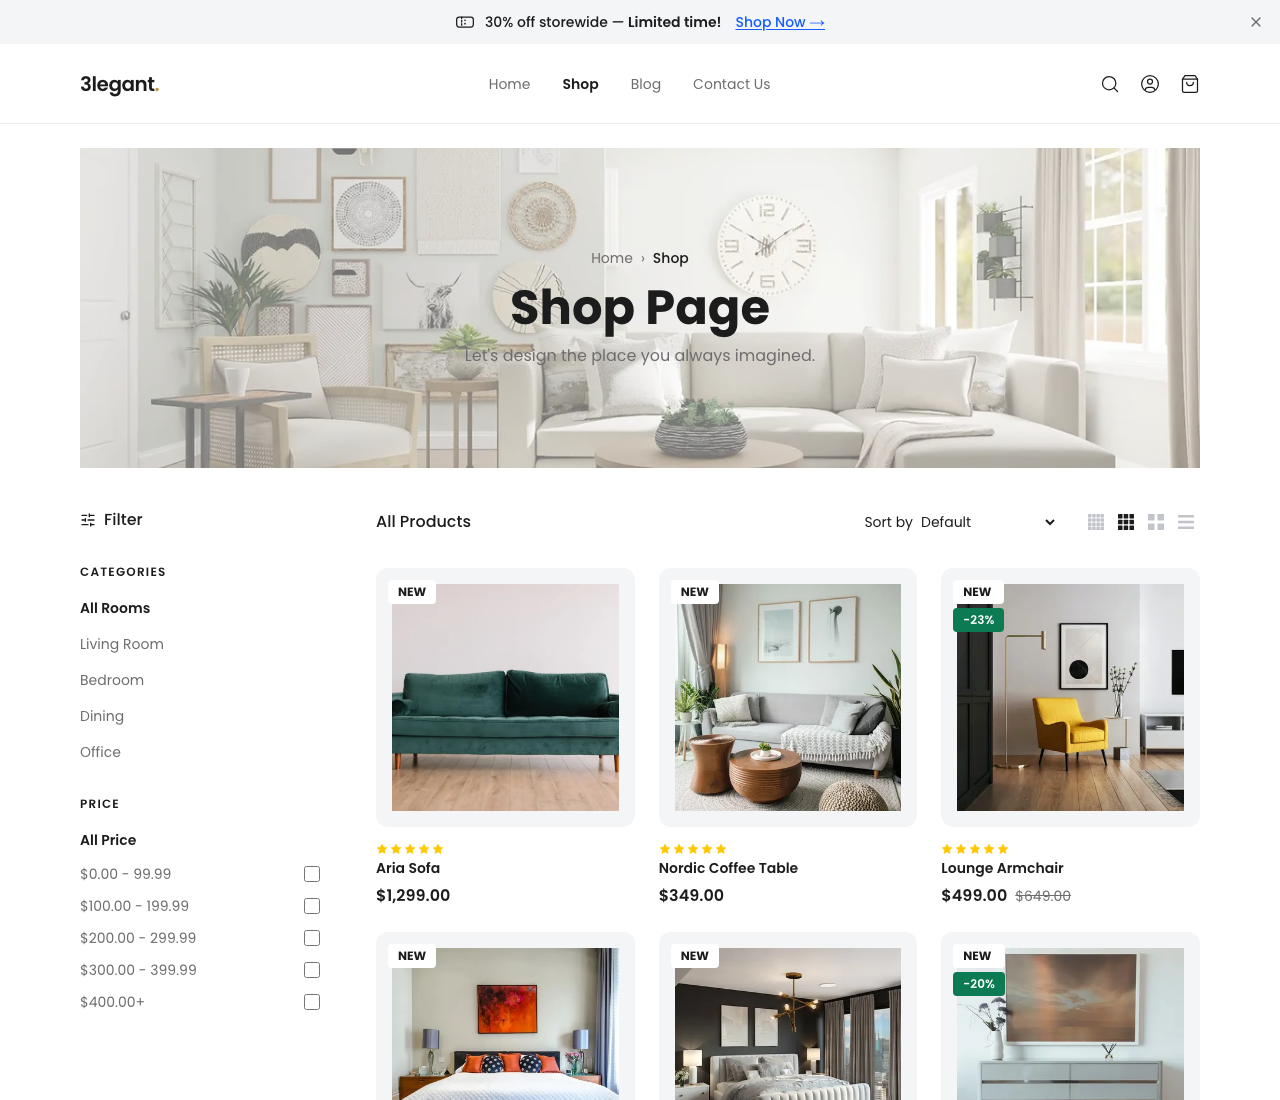
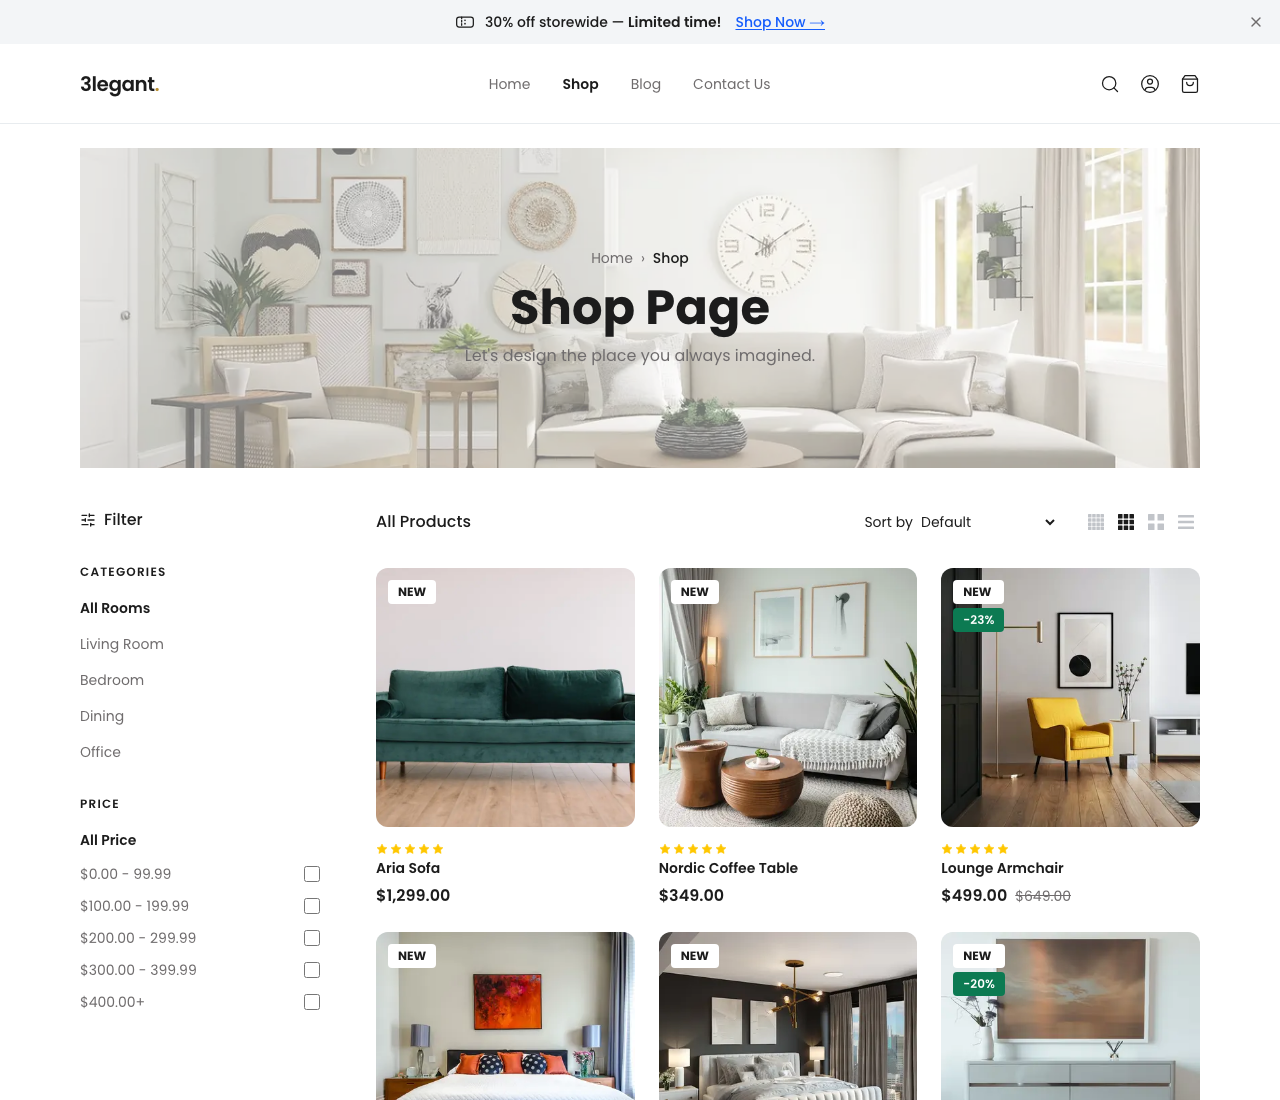
feat: let card and newsletter images fill their containers
The category and product cards drew their photos with object-contain plus
padding, so every card showed a band of bg-mist around the image and the
subject floated in the middle of an empty box. Both use object-cover now
and the photo runs to the edges.

Filling the category card puts the heading on top of the photo, so it
gains a small top-left scrim that fades out by 45% — enough for the ink
text to hold up over whatever the CMS serves, without washing out the
picture the way a full-card overlay did.

The Dining category photo was mostly bare wall; cropped to a wide card it
became an empty grey band. Swapped for a full dining scene. Note this is
the mock data only — the deployed site reads categories from Strapi, so
the same swap has to be made in the CMS.

The newsletter band was two mismatched image strips (20% and 24% wide) of
photos the page already shows above, either side of a flat panel, and no
image at all on mobile. It is now a single full-bleed photo behind an
ink/65 scrim with white text, on every breakpoint. Measured against the
rendered backdrop, the worst-case contrast in the text column is 5.7:1.

Screenshots for the shop, cart and checkout pages recaptured to match.

Changed region(s): [[0.2812, 0.4945, 0.9375, 0.7727], [0.2812, 0.8345, 0.9375, 1.0]]

diff --git a/src/features/shared/components/newsletter-section.tsx b/src/features/shared/components/newsletter-section.tsx
@@ -3,6 +3,11 @@
 import { useState } from "react";
 import Image from "next/image";
 
+// Decorative only. Deliberately not one of the photos the home page already
+// shows above this section, so the band reads as a new scene.
+const BACKDROP =
+  "https://images.unsplash.com/photo-1560184897-502a475f7a0d?w=1920&h=800&fit=crop&auto=format&q=80";
+
 function MailIcon() {
   return (
     <svg width="20" height="20" viewBox="0 0 24 24" fill="none" stroke="currentColor" strokeWidth={1.5} strokeLinecap="round" strokeLinejoin="round">
@@ -21,37 +26,29 @@ export function NewsletterSection() {
   }
 
   return (
-    <section className="relative overflow-hidden bg-mist">
-      {/* Flanking furniture images — desktop only */}
-      <div className="hidden lg:block absolute inset-y-0 left-0 w-[20%]" aria-hidden="true">
-        <Image
-          src="https://images.unsplash.com/photo-1540518614846-7eded433c457?w=600&h=900&fit=crop&auto=format&q=80"
-          alt=""
-          fill
-          sizes="20vw"
-          className="object-cover"
-        />
-      </div>
-      <div className="hidden lg:block absolute inset-y-0 right-0 w-[24%]" aria-hidden="true">
-        <Image
-          src="https://images.unsplash.com/photo-1555041469-a586c61ea9bc?w=600&h=900&fit=crop&auto=format&q=80"
-          alt=""
-          fill
-          sizes="24vw"
-          className="object-cover"
-        />
-      </div>
+    <section className="relative overflow-hidden bg-ink">
+      {/* Full-bleed backdrop */}
+      <Image
+        src={BACKDROP}
+        alt=""
+        aria-hidden="true"
+        fill
+        sizes="100vw"
+        className="object-cover"
+      />
+      {/* Scrim — carries the white text over whatever part of the photo shows */}
+      <div className="absolute inset-0 bg-ink/65" aria-hidden="true" />
 
-      <div className="relative py-16 lg:py-28 px-8 flex flex-col items-center text-center">
-        <h2 className="text-3xl lg:text-4xl font-bold text-ink">
+      <div className="relative py-20 lg:py-32 px-8 flex flex-col items-center text-center">
+        <h2 className="text-3xl lg:text-4xl font-bold text-white">
           Join Our Newsletter
         </h2>
-        <p className="text-subtle mt-3 max-w-sm">
+        <p className="text-white/80 mt-3 max-w-sm">
           Sign up for deals, new products and promotions
         </p>
         <form onSubmit={handleSubmit} className="mt-10 w-full max-w-sm">
-          <div className="flex items-center gap-3 border-b border-ink pb-3">
-            <span className="text-subtle shrink-0">
+          <div className="flex items-center gap-3 border-b border-white/70 pb-3 focus-within:border-white transition-colors">
+            <span className="text-white/70 shrink-0">
               <MailIcon />
             </span>
             <input
@@ -60,11 +57,11 @@ export function NewsletterSection() {
               onChange={(e) => setEmail(e.target.value)}
               placeholder="Email address"
               required
-              className="flex-1 bg-transparent text-sm outline-none placeholder:text-subtle text-ink"
+              className="flex-1 bg-transparent text-sm outline-none placeholder:text-white/70 text-white"
             />
             <button
               type="submit"
-              className="text-sm font-medium text-subtle hover:text-ink transition-colors shrink-0 cursor-pointer"
+              className="text-sm font-medium text-white hover:text-gold transition-colors shrink-0 cursor-pointer"
             >
               Signup
             </button>

diff --git a/src/features/products/components/category-card.tsx b/src/features/products/components/category-card.tsx
@@ -13,6 +13,9 @@ export function CategoryCard({ category, large = false }: CategoryCardProps) {
       href={`/shop?category=${category.slug}`}
       className="group relative flex h-full overflow-hidden rounded-2xl bg-mist"
     >
+      {/* Scrim — keeps the ink text readable over whatever photo the CMS serves */}
+      <div className="absolute inset-0 z-[5] bg-gradient-to-br from-white/95 from-0% via-white/45 via-20% to-transparent to-45%" />
+
       {/* Text — top left */}
       <div className="absolute top-6 left-6 z-10 md:top-8 md:left-8">
         <h3
@@ -38,11 +41,7 @@ export function CategoryCard({ category, large = false }: CategoryCardProps) {
               ? "(max-width: 768px) 100vw, 50vw"
               : "(max-width: 768px) 100vw, 25vw"
           }
-          className={`object-contain transition-transform duration-500 group-hover:scale-105 ${
-            large
-              ? "object-bottom px-6 pt-24 pb-4"
-              : "object-bottom-right px-4 pt-20 pb-2"
-          }`}
+          className="object-cover transition-transform duration-500 group-hover:scale-105"
         />
       </div>
     </Link>

diff --git a/src/features/products/mock-data.ts b/src/features/products/mock-data.ts
@@ -22,7 +22,9 @@ export const mockCategories: Category[] = [
     id: "cat-3",
     slug: "dining",
     name: "Dining",
-    image: U("1577140917170-285929fb55b7"),
+    // A full dining scene — the previous photo was mostly bare wall, which the
+    // card's cover crop reduced to an empty band.
+    image: U("1730104231026-46e3cf7c3141"),
     description: "Elegant dining sets for memorable meals together.",
   },
   {

diff --git a/src/features/products/components/product-card.tsx b/src/features/products/components/product-card.tsx
@@ -130,7 +130,7 @@ export function ProductCard({ product }: ProductCardProps) {
               alt={product.name}
               fill
               sizes="(max-width: 768px) 50vw, 25vw"
-              className="object-contain p-4"
+              className="object-cover"
             />
           </div>
         </Link>
